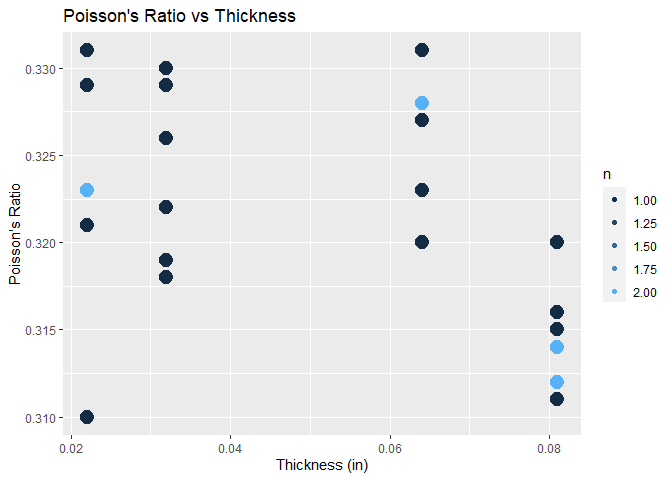
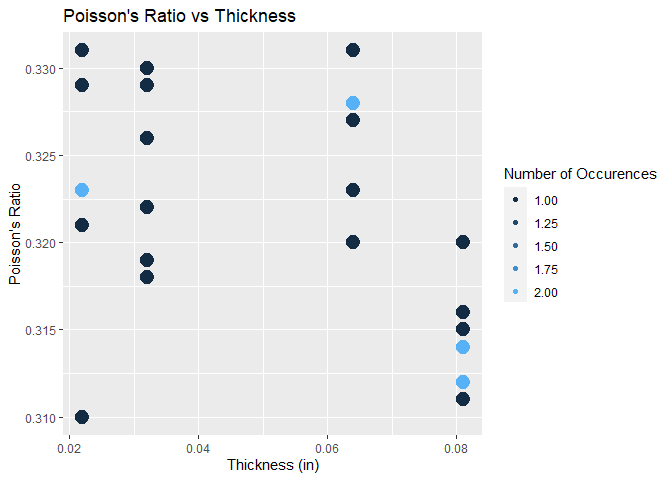
Challenge 3 corrections

diff --git a/challenges/c03-stang-assignment.md b/challenges/c03-stang-assignment.md
@@ -83,14 +83,32 @@ for more information.
 library(tidyverse)
 ```
 
-    ## ── Attaching packages ─────────────────────────────────────── tidyverse 1.3.2 ──
-    ## ✔ ggplot2 3.4.0      ✔ purrr   1.0.1 
-    ## ✔ tibble  3.1.8      ✔ dplyr   1.0.10
-    ## ✔ tidyr   1.2.1      ✔ stringr 1.5.0 
-    ## ✔ readr   2.1.3      ✔ forcats 0.5.2 
+    ## Warning: package 'tidyverse' was built under R version 4.2.3
+
+    ## Warning: package 'ggplot2' was built under R version 4.2.3
+
+    ## Warning: package 'tibble' was built under R version 4.2.3
+
+    ## Warning: package 'tidyr' was built under R version 4.2.3
+
+    ## Warning: package 'readr' was built under R version 4.2.3
+
+    ## Warning: package 'dplyr' was built under R version 4.2.3
+
+    ## Warning: package 'forcats' was built under R version 4.2.3
+
+    ## Warning: package 'lubridate' was built under R version 4.2.3
+
+    ## ── Attaching core tidyverse packages ──────────────────────── tidyverse 2.0.0 ──
+    ## ✔ dplyr     1.1.1     ✔ readr     2.1.4
+    ## ✔ forcats   1.0.0     ✔ stringr   1.5.0
+    ## ✔ ggplot2   3.4.2     ✔ tibble    3.2.1
+    ## ✔ lubridate 1.9.2     ✔ tidyr     1.3.0
+    ## ✔ purrr     1.0.1     
     ## ── Conflicts ────────────────────────────────────────── tidyverse_conflicts() ──
     ## ✖ dplyr::filter() masks stats::filter()
     ## ✖ dplyr::lag()    masks stats::lag()
+    ## ℹ Use the ]8;;http://conflicted.r-lib.org/conflicted package]8;; to force all conflicts to become errors
 
 ``` r
 library(latex2exp)
@@ -189,7 +207,7 @@ df_stang_long
     ##  8 0.032 al_24st    45 10400 0.318
     ##  9 0.032 al_24st    90 10300 0.322
     ## 10 0.032 al_24st     0 10300 0.319
-    ## # … with 16 more rows
+    ## # ℹ 16 more rows
 
 Use the following tests to check your work.
 
@@ -274,6 +292,26 @@ df_stang_long %>%
     ## 3 0.064     6
     ## 4 0.081     8
 
+``` r
+df_stang_long %>% 
+  head(26)
+```
+
+    ## # A tibble: 26 × 5
+    ##    thick alloy   angle     E    nu
+    ##    <dbl> <chr>   <int> <dbl> <dbl>
+    ##  1 0.022 al_24st     0 10600 0.321
+    ##  2 0.022 al_24st    45 10700 0.329
+    ##  3 0.022 al_24st    90 10500 0.31 
+    ##  4 0.022 al_24st     0 10600 0.323
+    ##  5 0.022 al_24st    45 10500 0.331
+    ##  6 0.022 al_24st    90 10700 0.323
+    ##  7 0.032 al_24st     0 10400 0.329
+    ##  8 0.032 al_24st    45 10400 0.318
+    ##  9 0.032 al_24st    90 10300 0.322
+    ## 10 0.032 al_24st     0 10300 0.319
+    ## # ℹ 16 more rows
+
 **Observations**:
 
 - Is there “one true value” for the material properties of Aluminum?
@@ -283,7 +321,7 @@ df_stang_long %>%
   - Furthermore, even though elasticity and Poisson’s Ratio are
     considered material properties (constant for a particular alloy),
     this isn’t necessarily true to real life. The ‘known’ values are
-    more a value that is representative of the dsitribution of possible
+    more a value that is representative of the distribution of possible
     values (based on the many aspects that can cause variation in these
     values from how the atoms are arranged to noise in a signal when
     collecting data digitally).
@@ -314,12 +352,18 @@ df_stang_long %>%
   
     guides(size = FALSE) +
   
-    labs(x = "Thickness (in)", y = TeX("Poisson's Ratio"), 
-         title = "Poisson's Ratio vs Thickness")
+    labs(x = "Thickness (in)", 
+         y = TeX("Poisson's Ratio"), 
+         title = "Poisson's Ratio vs Thickness", 
+         color = "Number of Occurences"
+         )
 ```
 
     ## Warning: The `<scale>` argument of `guides()` cannot be `FALSE`. Use "none" instead as
     ## of ggplot2 3.3.4.
+    ## This warning is displayed once every 8 hours.
+    ## Call `lifecycle::last_lifecycle_warnings()` to see where this warning was
+    ## generated.
 
 ![](c03-stang-assignment_files/figure-gfm/q3-task-1.png)<!-- -->
 
@@ -420,69 +464,69 @@ df_stang_long %>%
 
     ## `geom_smooth()` using method = 'loess' and formula = 'y ~ x'
 
-    ## Warning in simpleLoess(y, x, w, span, degree = degree, parametric =
-    ## parametric, : pseudoinverse used at 0.081295
+    ## Warning in simpleLoess(y, x, w, span, degree = degree, parametric = parametric,
+    ## : pseudoinverse used at 0.081295
 
-    ## Warning in simpleLoess(y, x, w, span, degree = degree, parametric =
-    ## parametric, : neighborhood radius 0.049295
+    ## Warning in simpleLoess(y, x, w, span, degree = degree, parametric = parametric,
+    ## : neighborhood radius 0.049295
 
-    ## Warning in simpleLoess(y, x, w, span, degree = degree, parametric =
-    ## parametric, : reciprocal condition number 2.9951e-17
+    ## Warning in simpleLoess(y, x, w, span, degree = degree, parametric = parametric,
+    ## : reciprocal condition number 2.9951e-17
 
-    ## Warning in simpleLoess(y, x, w, span, degree = degree, parametric =
-    ## parametric, : There are other near singularities as well. 0.001024
+    ## Warning in simpleLoess(y, x, w, span, degree = degree, parametric = parametric,
+    ## : There are other near singularities as well. 0.001024
 
-    ## Warning in predLoess(object$y, object$x, newx = if
-    ## (is.null(newdata)) object$x else if (is.data.frame(newdata))
+    ## Warning in predLoess(object$y, object$x, newx = if (is.null(newdata)) object$x
+    ## else if (is.data.frame(newdata))
     ## as.matrix(model.frame(delete.response(terms(object)), : pseudoinverse used at
     ## 0.081295
 
-    ## Warning in predLoess(object$y, object$x, newx = if
-    ## (is.null(newdata)) object$x else if (is.data.frame(newdata))
+    ## Warning in predLoess(object$y, object$x, newx = if (is.null(newdata)) object$x
+    ## else if (is.data.frame(newdata))
     ## as.matrix(model.frame(delete.response(terms(object)), : neighborhood radius
     ## 0.049295
 
-    ## Warning in predLoess(object$y, object$x, newx = if
-    ## (is.null(newdata)) object$x else if (is.data.frame(newdata))
+    ## Warning in predLoess(object$y, object$x, newx = if (is.null(newdata)) object$x
+    ## else if (is.data.frame(newdata))
     ## as.matrix(model.frame(delete.response(terms(object)), : reciprocal condition
     ## number 2.9951e-17
 
-    ## Warning in predLoess(object$y, object$x, newx = if
-    ## (is.null(newdata)) object$x else if (is.data.frame(newdata))
+    ## Warning in predLoess(object$y, object$x, newx = if (is.null(newdata)) object$x
+    ## else if (is.data.frame(newdata))
     ## as.matrix(model.frame(delete.response(terms(object)), : There are other near
     ## singularities as well. 0.001024
 
     ## `geom_smooth()` using method = 'loess' and formula = 'y ~ x'
 
-    ## Warning in simpleLoess(y, x, w, span, degree = degree, parametric =
-    ## parametric, : pseudoinverse used at 0.02179
+    ## Warning in simpleLoess(y, x, w, span, degree = degree, parametric = parametric,
+    ## : pseudoinverse used at 0.02179
 
-    ## Warning in simpleLoess(y, x, w, span, degree = degree, parametric =
-    ## parametric, : neighborhood radius 0.04221
+    ## Warning in simpleLoess(y, x, w, span, degree = degree, parametric = parametric,
+    ## : neighborhood radius 0.04221
 
-    ## Warning in simpleLoess(y, x, w, span, degree = degree, parametric =
-    ## parametric, : reciprocal condition number 2.4004e-17
+    ## Warning in simpleLoess(y, x, w, span, degree = degree, parametric = parametric,
+    ## : reciprocal condition number 2.4004e-17
 
-    ## Warning in simpleLoess(y, x, w, span, degree = degree, parametric =
-    ## parametric, : There are other near singularities as well. 0.0017817
+    ## Warning in simpleLoess(y, x, w, span, degree = degree, parametric = parametric,
+    ## : There are other near singularities as well. 0.0017817
 
-    ## Warning in predLoess(object$y, object$x, newx = if
-    ## (is.null(newdata)) object$x else if (is.data.frame(newdata))
+    ## Warning in predLoess(object$y, object$x, newx = if (is.null(newdata)) object$x
+    ## else if (is.data.frame(newdata))
     ## as.matrix(model.frame(delete.response(terms(object)), : pseudoinverse used at
     ## 0.02179
 
-    ## Warning in predLoess(object$y, object$x, newx = if
-    ## (is.null(newdata)) object$x else if (is.data.frame(newdata))
+    ## Warning in predLoess(object$y, object$x, newx = if (is.null(newdata)) object$x
+    ## else if (is.data.frame(newdata))
     ## as.matrix(model.frame(delete.response(terms(object)), : neighborhood radius
     ## 0.04221
 
-    ## Warning in predLoess(object$y, object$x, newx = if
-    ## (is.null(newdata)) object$x else if (is.data.frame(newdata))
+    ## Warning in predLoess(object$y, object$x, newx = if (is.null(newdata)) object$x
+    ## else if (is.data.frame(newdata))
     ## as.matrix(model.frame(delete.response(terms(object)), : reciprocal condition
     ## number 2.4004e-17
 
-    ## Warning in predLoess(object$y, object$x, newx = if
-    ## (is.null(newdata)) object$x else if (is.data.frame(newdata))
+    ## Warning in predLoess(object$y, object$x, newx = if (is.null(newdata)) object$x
+    ## else if (is.data.frame(newdata))
     ## as.matrix(model.frame(delete.response(terms(object)), : There are other near
     ## singularities as well. 0.0017817
 
